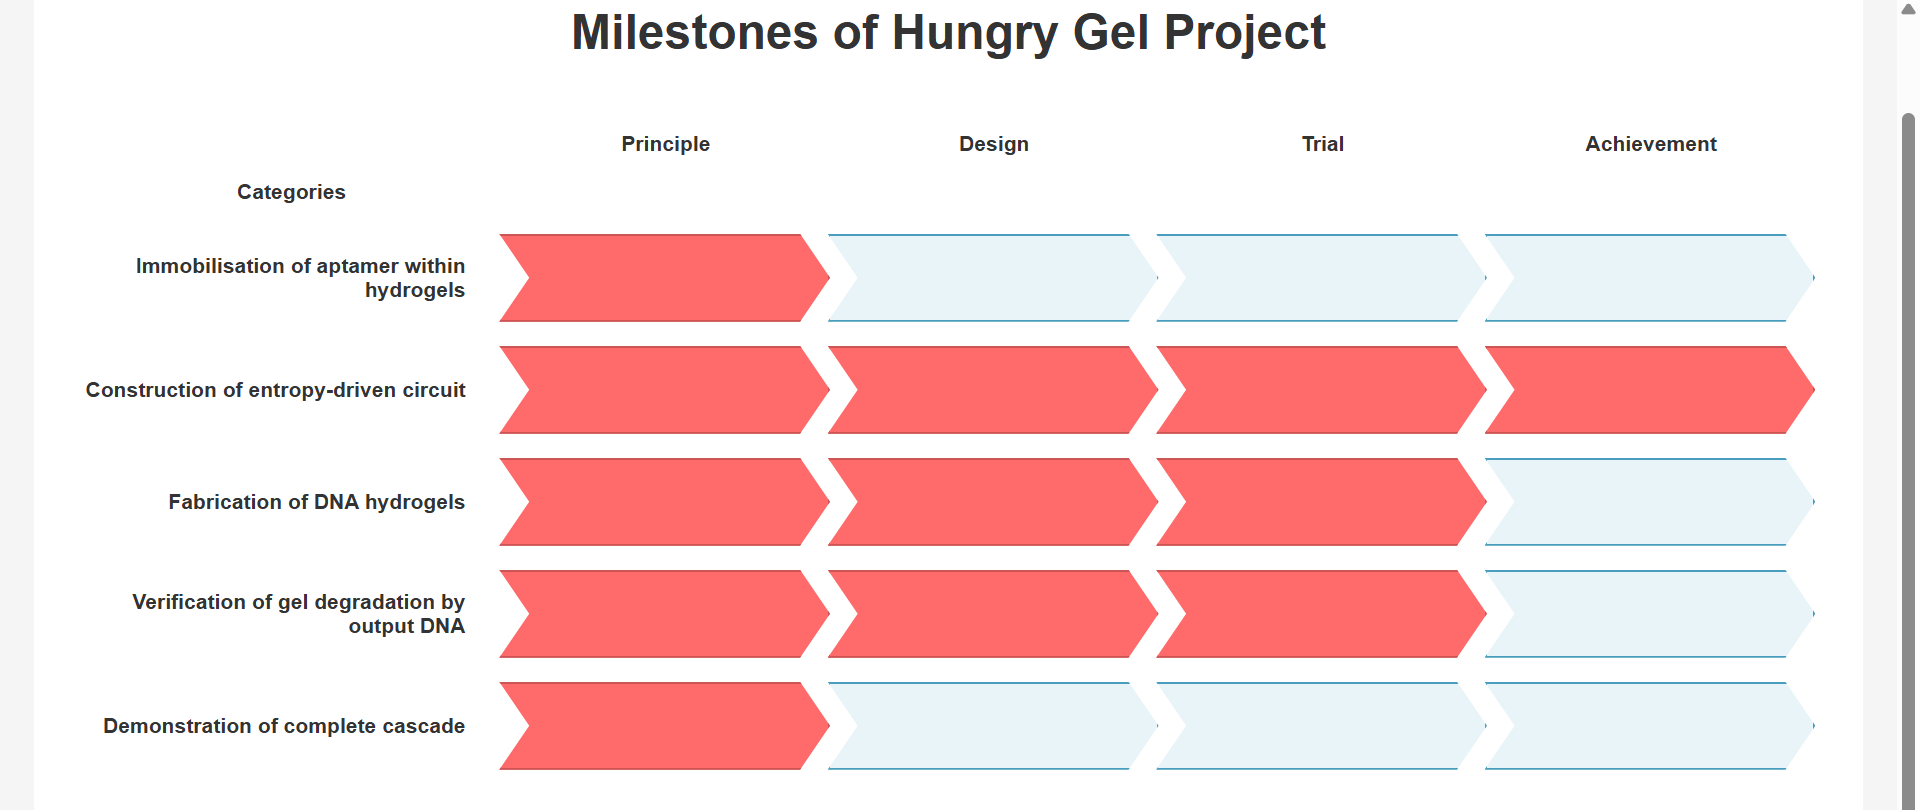
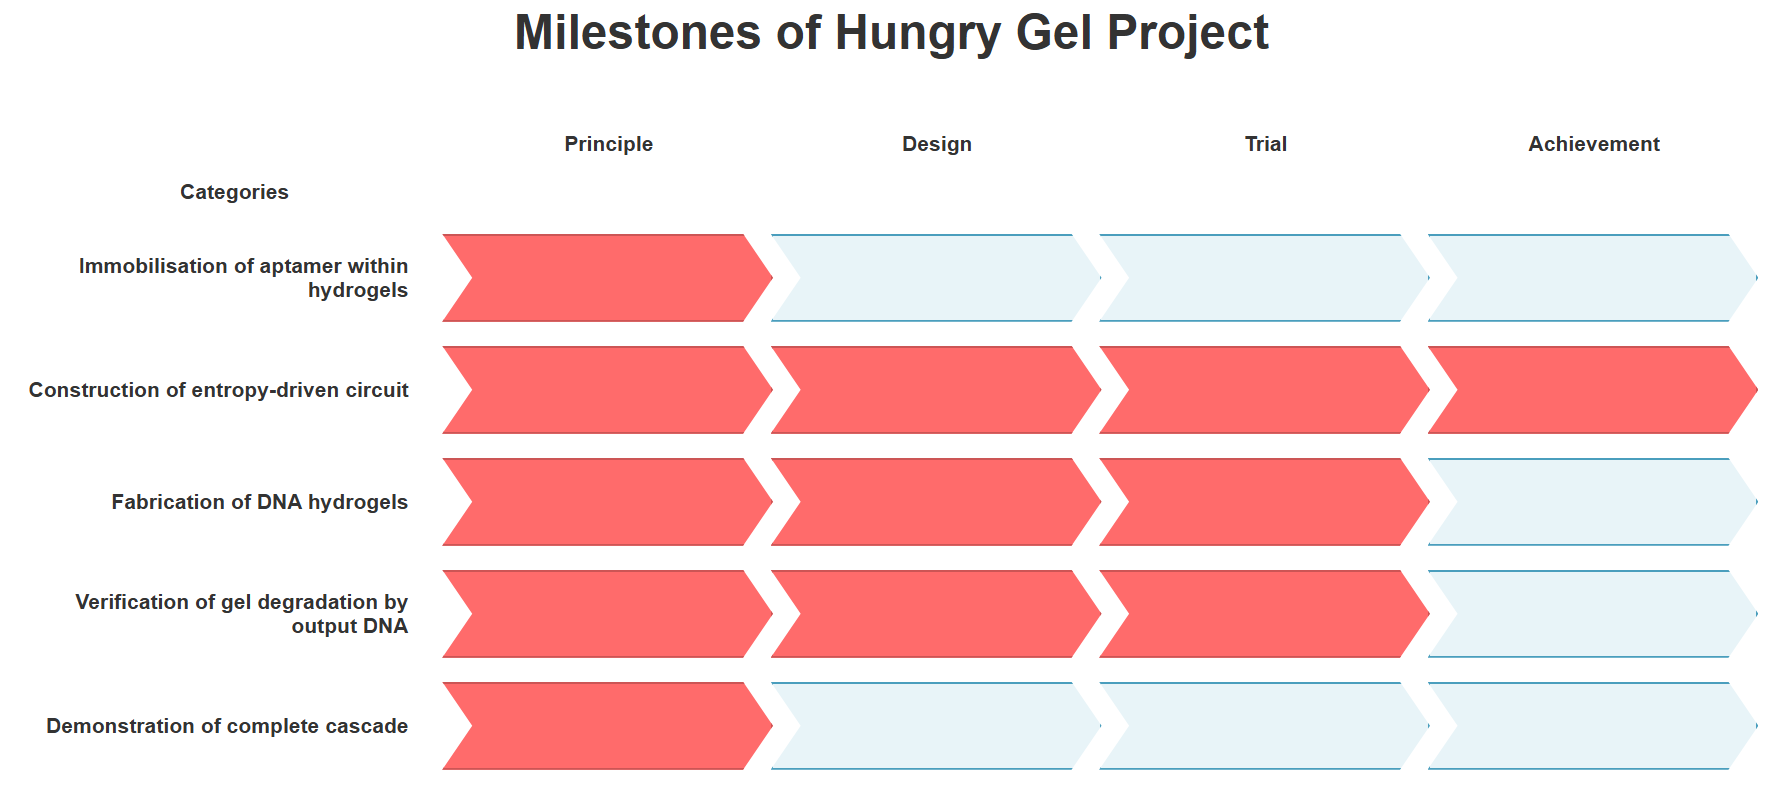
あらためて

diff --git a/discussion_and_future.html b/discussion_and_future.html
@@ -38,28 +38,46 @@
     <div class="content">
         <section>
         <h2>Discussion</h2>
+        <h3 class="sub">Evaluation of Milestones</h3>
+        <img src="image/milestone_achieve.png" alt="Milestones" style="width:80%; display: block; margin: 20px auto;">
+        <h3 class="fig-caption">Fig.1 Milestones achieved in this project</h3>
+        <br><br>
+        <h3>The achievement level of this project is shown in Fig.1</h3>
+
         <h3 class="sub">Summary of Experimental Results and Design Issues</h3>
         <h3>
-        設計したゲル用のDNA4種を混ぜても目に見える大きさのゲルはできなかった。PAGE電気泳動の結果から十字のモチーフは設計通りにできていると考えられ、DLSの実験からモチーフが数μmの構造を成していると分かった。
-        DLSとアガロース電気泳動の実験で、この数μmの構造にentropy driven circuitのoutput, fuel, バッファを加えた時の変化を調べた。全ての場合で数μmの構造は減少したが、それぞれの変化に大きな違いはなかった。これはゲルのDNAが相補性で結合しているのではなく単に凝集しており、outputがゲルの架橋構造を壊したのではなく、凝集していたDNAが溶液の希釈によって分散したためだと考えられる。
-        この原因として考えられるものが二つある。<br>
-        一つ目はモチーフ間の結合箇所に溶解のためのトーホールドを結合箇所の間に作ってしまったことである。トーホールドは、二本鎖である箇所に比べて柔軟である。柔軟であるほど強い斥力がはたらき、また、スティッキーエンド間のハイブリダイゼーション速度が遅くなるため[1]、スティッキーエンドに1本鎖の部分が残るとゲルができにくくなる。
-        <br>
-        二つ目はスティッキーエンドが自己相互配列になっておらず結合するスティッキーエンドの組み合わせが半分になっていることである。下図において、相互配列の場合1は1, 2, 3, 4全てと結合できるが、私たちの設計の場合1は2か4としか結合できなく、結合する組み合わせが半分になっている。
+        Mixing the four types of DNA designed for the gel did not result in a visible gel. From the results of PAGE electrophoresis, it is considered that the cross-shaped motifs were formed as designed, and DLS experiments showed that the motifs assemble into structures several micrometers in size.
+        <br><br>
+        Using DLS (experiment 5 ~ 6) and agarose gel electrophoresis (experiment 8 ~ 9), we investigated the changes in these micrometer-sized structures upon the addition of the entropy-driven circuit output, fuel, and buffer (experiment 7 ~ 9). In all cases, the micrometer-sized structures decreased, but there were no significant differences among the changes. This suggests that the DNA in the gel was not bound through complementarity, but was simply aggregated, and that the decrease was not due to the output breaking the gel’s crosslinking structure, but rather due to the dispersion of the aggregated DNA caused by dilution in solution.
+        Two possible causes for this are considered.<br><br>
+        The first possible cause is that single-stranded regions which act as toeholds for dissociation were introduced between the binding sites of the motifs. These regions are more flexible than double-stranded regions. Because the hybridization rate between sticky ends gets slower[1], gel formation becomes difficult.
+        <br><br>
+        The second possible cause is that the sticky ends are not self complementary, resulting in only half of the possible sticky end pairs being able to bind. In the figure below, in the case of self complementary sequences, sticky end 1 can bind to 1, 2, 3, and 4, whereas in our design, sticky end 1 can bind only to 2 or 4, reducing the number of binding combinations by half. This also makes it difficult for gels to form.
         </h3>
         <img src="image/gel_motif.png" alt="Gel Motif" style="max-width: 100%; height: auto; display: block; margin: 10px auto;">
-        <h3 class="sub">改善案</h3>
+        <h3 class="fig-caption">Fig.2: Example of a gel motif with the toehold position changed</h3>
+        <br><br>
+
+        <h3 class="sub">Improvement Plans</h3>
         <h3>
-        上記の二つの原因に対してそれぞれ改善案を示す。
-        一つ目の原因については、Fig.2のようにトーホールドの位置を変える案が考えられる。トーホールドをモチーフ間の結合箇所の間ではなく、下図のように結合箇所の外側に配置することで、ハイブリダイゼーション速度の減少を防ぐことができると考えられる。
-        二つ目の原因については、ゲルのスティッキーエンドを自己相補配列にするという案が考えられる。その場合、従来のエントロピー駆動回路のoutputがスティッキーエンドをはがすことができなくなるので、スティッキーエンドをはがす配列をもつDNAを生成する、新たなエントロピー駆動回路を設計する必要がある。
+        For the two issues mentioned above, we propose the following improvement plans.
+        For the single-stranded regions, one possible solution is to change the position of the toehold so that no single-stranded region remains. By swapping the positions of domain T’ and B’ from T’-B’ to B’-T’, as shown below, it is expected that the decrease in hybridization rate can be prevented.
         </h3>
         <div class="image-container">
             <img src="image/gel_motif_improve.png" alt="Gel Motif2" style="max-width: 80%; height: auto; display: block; margin: 10px auto;">
-            <h3 class="fig-caption">Fig.2: トーホールドの位置を変えたゲルモチーフの例</h3>
+            <h3 class="fig-caption">Fig.3: Example of a gel motif with the toehold position changed</h3>
         </div>
-        </section>
         <br>
+        <h3>
+        For the combination of sticky ends for binding, another possible approach is to use self-complementary sequences for the sticky ends of the gel. Research on DNA hydrogels involving intermolecular interactions has reported numerous examples utilizing self-complementary sequences[2][3].
+        <br><br>
+        However, in that case, the output sequence in the entropy-driven circuit will change, and the circuit must be redesigned accordingly. And carefully examining whether the circuit can still function properly even when self-complementary sequences are included, the issue of motif connection is improved.
+        <br><br>
+        Alternatively, rather than creating a gel from a DNA motif, DNA can be used as the cross-linking agent. This approach enables gelation and dissolution even with a lower DNA concentration compared to the motif used in this study. In fact, research has been published on a hydrogel in which acrylamide is cross-linked with DNA, and this gel dissolves in response to E. coli.
+        <br><br>
+        As a next step, it would be useful to perform model experiments using microbeads modified with the catalyst sequence to demonstrate uptaking target before using aptamers.
+        At the current phase, among the three main functions of macrophages, the first one—recognition—has not yet been examined. To achieve the function of recognition, the aptamer needs to be selected for target bacteria. And the catalyst sequence needs to be designed and its connection to the entropy-driven circuit needs to be experimentally verified.
+        </h3>
 
         <section>
         <h2>Future</h2>

diff --git a/project.html b/project.html
@@ -117,18 +117,22 @@
         via toe-hold mediated strand displacement (TMSD), thereby dissolving the hydrogel's
         network structure.
         </h3>
-        <br>
+        <br><br>
+        <h3>Based on these concepts, the system flow is illustrated in Fig. 1.</h3>
+        <img src="image/system_flow.png" alt="Hungry Gel system flow" style="width:80%; display: block; margin: 20px auto;">
+        <h3 class="fig-caption">Fig.1 Overview of the Hungry Gel system</h3>
+        <br><br>
         </section>
         <br>
 
         <h2>Milestones</h2>
         <br>
         <h3>
-        We have established the five milestones as shown in Fig.1. The achievement level of this project is evaluated by these milestones. 
+        We have established the five milestones as shown in Fig.2 The achievement level of this project is evaluated by these milestones. 
         </h3>
         
         <img src="image/milestone.png" alt="Milestones" style="width:80%; display: block; margin: 20px auto;">
-        <h3 class="fig-caption">Fig.1 Milestones of this project</h3>
+        <h3 class="fig-caption">Fig.2 Milestones of this project</h3>
 
         <br><br>
 

diff --git a/design.html b/design.html
@@ -184,7 +184,7 @@
         </div>
         <br>
 
-        <h3>・Long sticky end and short sticky end binding</h3>
+        <h3>・Two sticky ends binding</h3>
         <div class="image-row-center">
             <div class="image-col left">
                 <img src="image/nupack1.png" alt="NUPACK simulation result 1" style="width: 90%; height: 80%;">
@@ -201,7 +201,7 @@
         </h3>
         <br>
 
-        <h3>・Long sticky end and Output binding</h3>
+        <h3>・Sticky end and Output binding</h3>
         <div class="image-row-center">
             <div class="image-col left">
                 <img src="image/nupack5.png" alt="NUPACK simulation result 5" style="width: 90%; height: 80%;">
